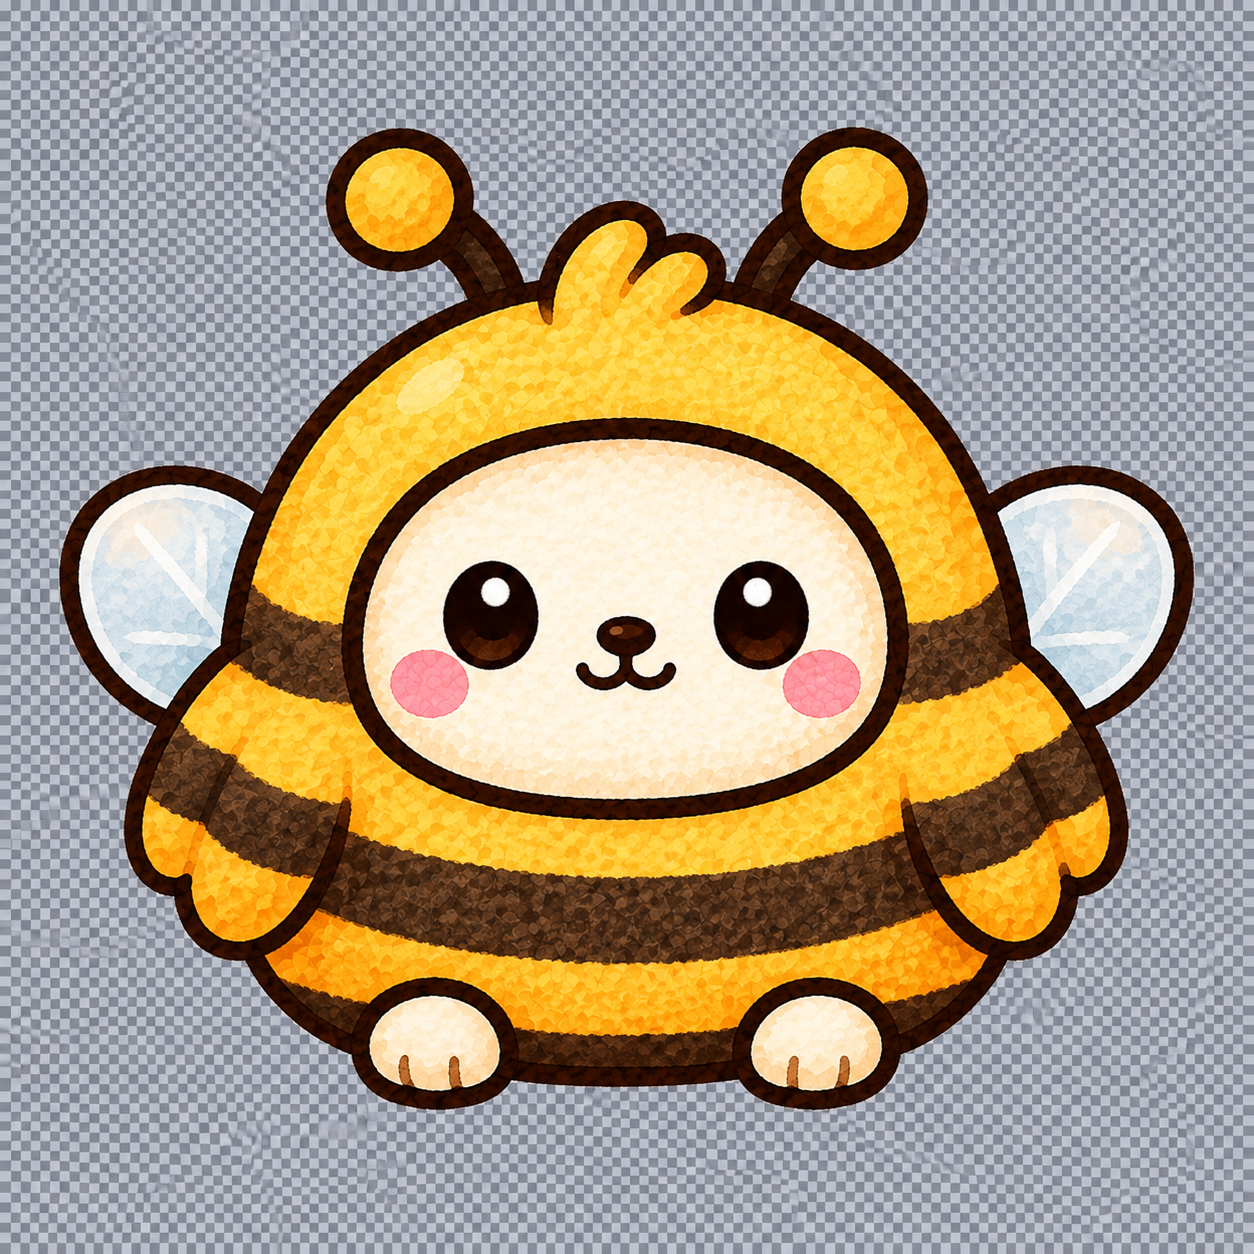
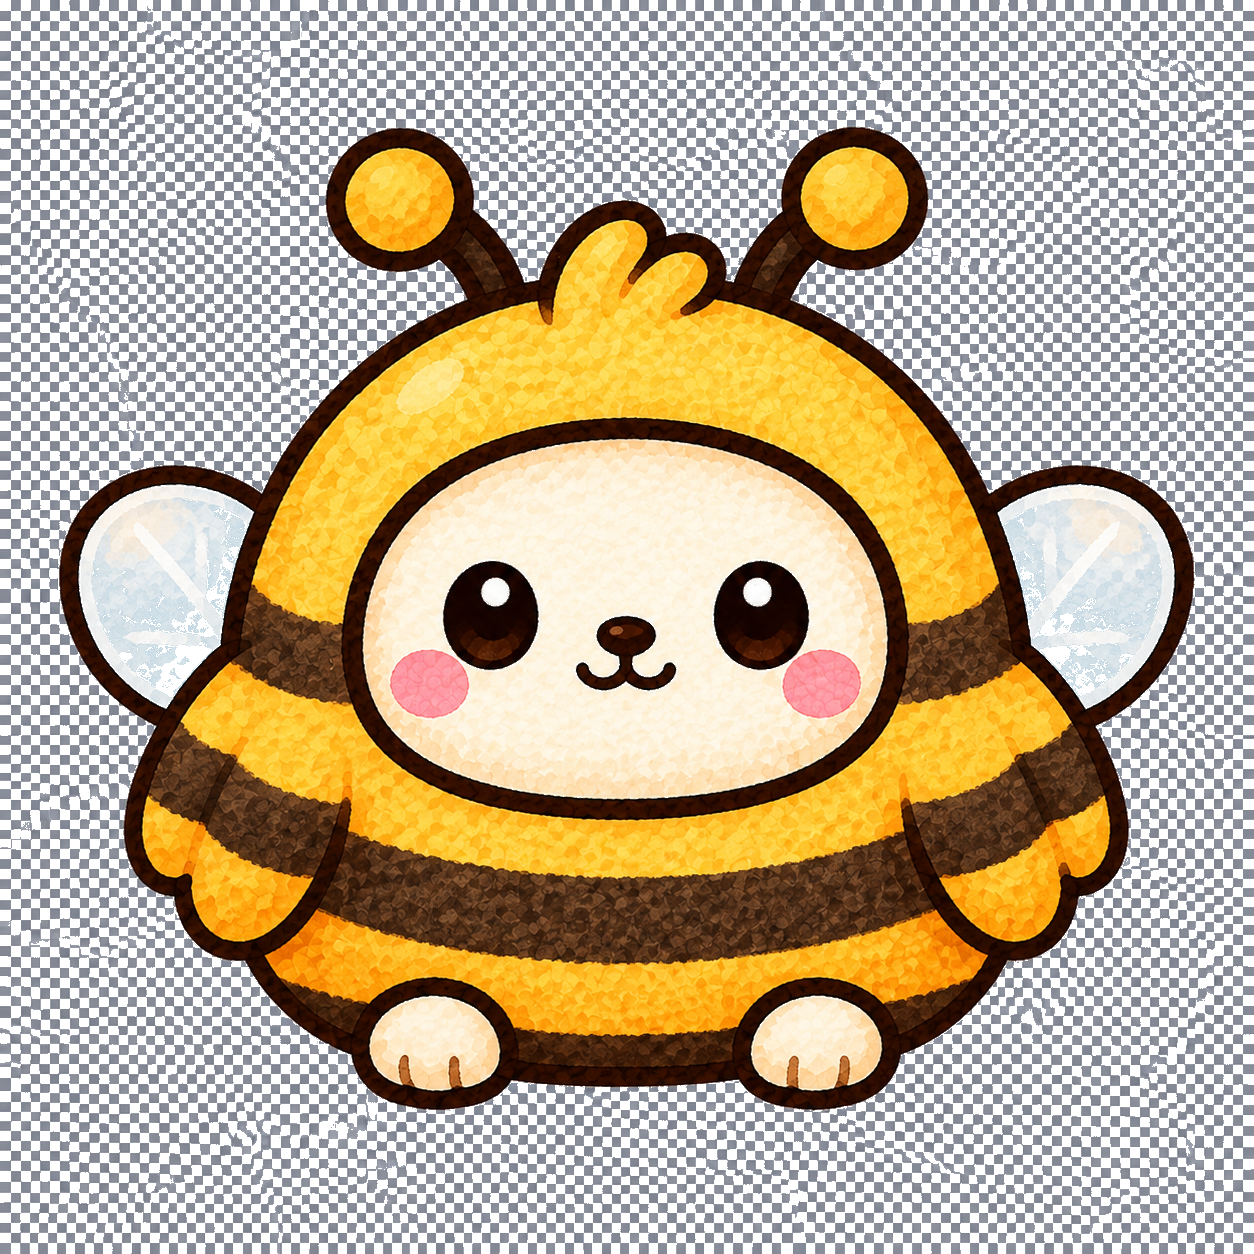
1.1.54

Changed region(s): [[0.0, 0.0, 1.0, 1.0]]

diff --git a/Intro.js b/Intro.js
@@ -48,7 +48,7 @@ const Intro = ({ onComplete, isAuthenticated = false, isConnected = true, tempor
 
   useEffect(() => {
     updateStatusRef.current = updateStatus;
-    if (sequenceFinishedRef.current && ['unavailable', 'error'].includes(updateStatus) && !completedRef.current) {
+    if (sequenceFinishedRef.current && updateStatus === 'unavailable' && !completedRef.current) {
       completedRef.current = true;
       onComplete();
     }
@@ -225,7 +225,7 @@ const Intro = ({ onComplete, isAuthenticated = false, isConnected = true, tempor
       if (mountedRef.current) setLoadingStatus('Preparando interfaz…');
       await new Promise(resolve => setTimeout(resolve, 220));
       sequenceFinishedRef.current = true;
-      if (!completedRef.current && ['unavailable', 'error'].includes(updateStatusRef.current)) {
+      if (!completedRef.current && updateStatusRef.current === 'unavailable') {
         completedRef.current = true;
         onComplete();
       }
@@ -280,14 +280,14 @@ const Intro = ({ onComplete, isAuthenticated = false, isConnected = true, tempor
           <Text style={styles.retryText}>REINTENTAR</Text>
         </TouchableOpacity>}
       </LinearGradient>
-      <Modal visible={updateStatus === 'available' || updateStatus === 'downloading'} transparent animationType="fade" statusBarTranslucent>
+      <Modal visible={updateStatus === 'available' || updateStatus === 'downloading' || updateStatus === 'error'} transparent animationType="fade" statusBarTranslucent>
         <View style={styles.updateOverlay}>
           <View style={styles.updateCard}>
             <View style={styles.updateSparkle}><Text style={styles.updateSparkleText}>✦</Text></View>
-            <Text style={styles.updateEyebrow}>UNA SORPRESA PARA USTEDES</Text>
-            <Text style={styles.updateTitle}>¡Hay una nueva versión!</Text>
+            <Text style={styles.updateEyebrow}>{updateStatus === 'error' ? 'NO PUDIMOS TERMINAR' : 'UNA SORPRESA PARA USTEDES'}</Text>
+            <Text style={styles.updateTitle}>{updateStatus === 'error' ? 'La actualización quedó pendiente' : '¡Hay una nueva versión!'}</Text>
             {updateVersion && <View style={styles.updateVersionBadge}><Text style={styles.updateVersionText}>VERSIÓN {updateVersion}</Text></View>}
-            <Text style={styles.updateDescription}>Preparamos nuevas mejoras con mucho cariño para que su rinconcito se sienta más bonito, cómodo y especial. ¿Quieren descubrirlas ahora?</Text>
+            <Text style={styles.updateDescription}>{updateStatus === 'error' ? 'No se pudo aplicar todavía. Revisá tu conexión e intentá nuevamente.' : 'Preparamos nuevas mejoras con mucho cariño para que su rinconcito se sienta más bonito, cómodo y especial. ¿Quieren descubrirlas ahora?'}</Text>
             {updateStatus === 'downloading' ? (
               <View style={styles.updateLoading}>
                 <ActivityIndicator color="#fff8dc" size="small" />
@@ -296,7 +296,7 @@ const Intro = ({ onComplete, isAuthenticated = false, isConnected = true, tempor
             ) : (
               <View style={styles.updateActions}>
                 <TouchableOpacity style={styles.updateNowButton} onPress={onAcceptUpdate} activeOpacity={0.85}>
-                  <Text style={styles.updateNowText}>Actualizar ahora</Text>
+                  <Text style={styles.updateNowText}>{updateStatus === 'error' ? 'Reintentar' : 'Actualizar ahora'}</Text>
                 </TouchableOpacity>
               </View>
             )}

diff --git a/components/UpdateModal.js b/components/UpdateModal.js
@@ -3,7 +3,7 @@ import { ActivityIndicator, Modal, StyleSheet, Text, TouchableOpacity, View } fr
 import { LinearGradient } from 'expo-linear-gradient';
 
 export default function UpdateModal({ status, version, description, onAccept }) {
-  const visible = status === 'available' || status === 'downloading';
+  const visible = status === 'available' || status === 'downloading' || status === 'error';
 
   return (
     <Modal visible={visible} transparent animationType="fade" statusBarTranslucent onRequestClose={() => {}}>
@@ -11,11 +11,11 @@ export default function UpdateModal({ status, version, description, onAccept }) 
         <LinearGradient colors={['#fffaf0', '#fff0d4']} style={styles.card}>
           <View style={styles.glow} />
           <Text style={styles.sparkle}>✦</Text>
-          <Text style={styles.eyebrow}>UNA SORPRESA PARA USTEDES</Text>
-          <Text style={styles.title}>¡Hay una nueva versión!</Text>
+          <Text style={styles.eyebrow}>{status === 'error' ? 'NO PUDIMOS TERMINAR' : 'UNA SORPRESA PARA USTEDES'}</Text>
+          <Text style={styles.title}>{status === 'error' ? 'La actualización quedó pendiente' : '¡Hay una nueva versión!'}</Text>
           {!!version && <View style={styles.badge}><Text style={styles.badgeText}>VERSIÓN {version}</Text></View>}
           <Text style={styles.description}>
-            {description || 'Preparamos nuevas mejoras con mucho cariño para que su rinconcito se sienta más bonito, cómodo y especial.'}
+            {status === 'error' ? 'No se pudo aplicar todavía. Revisá tu conexión e intentá nuevamente.' : (description || 'Preparamos nuevas mejoras con mucho cariño para que su rinconcito se sienta más bonito, cómodo y especial.')}
           </Text>
           {status === 'downloading' ? (
             <View style={styles.loading}>
@@ -25,7 +25,7 @@ export default function UpdateModal({ status, version, description, onAccept }) 
           ) : (
             <View style={styles.actions}>
               <TouchableOpacity style={styles.nowButton} onPress={onAccept} activeOpacity={0.85}>
-                <Text style={styles.nowText}>Actualizar ahora</Text>
+                <Text style={styles.nowText}>{status === 'error' ? 'Reintentar' : 'Actualizar ahora'}</Text>
               </TouchableOpacity>
             </View>
           )}

diff --git a/App.js b/App.js
@@ -249,18 +249,34 @@ export default function App() {
       })).catch(() => {});
     }
     try {
+      // La OTA puede haber cambiado entre la comprobación inicial y el toque
+      // del usuario. Volvemos a validarla para no descargar un candidato
+      // atrasado o que ya no esté disponible.
+      const comprobacion = await Updates.checkForUpdateAsync();
+      if (!comprobacion?.isAvailable) {
+        await AsyncStorage.removeItem(UPDATE_ATTEMPT_STORAGE_KEY).catch(() => {});
+        updateCandidateRef.current = null;
+        updateStatusRef.current = 'unavailable';
+        setEstadoActualizacion('unavailable');
+        return;
+      }
       const resultado = await Updates.fetchUpdateAsync();
       console.log('[Updates] Descarga finalizada', {
         isNew: resultado?.isNew,
         updateId: resultado?.manifest?.id || candidata?.id || null,
       });
       if (!resultado?.isNew) throw new Error('update-not-downloaded');
+      await AsyncStorage.removeItem(UPDATE_ATTEMPT_STORAGE_KEY).catch(() => {});
+      // No agregamos lógica después: Expo reinicia el runtime de forma
+      // asíncrona inmediatamente después de aceptar esta llamada.
       await Updates.reloadAsync();
     } catch (error) {
       console.warn('[Updates] No se pudo instalar la actualización', error?.message || error);
-      // No volvemos a ponerla en "available": eso reabre el modal y crea el
-      // bucle. El intento queda guardado para que el próximo arranque continúe
-      // normalmente y pueda reintentar después del período de seguridad.
+      try {
+        const entradas = await Updates.readLogEntriesAsync(20);
+        console.warn('[Updates] Últimos registros', entradas?.slice?.(-5));
+      } catch {}
+      // El error no libera Intro: la persona puede reintentar desde el modal.
       updateStatusRef.current = 'error';
       setEstadoActualizacion('error');
     }
